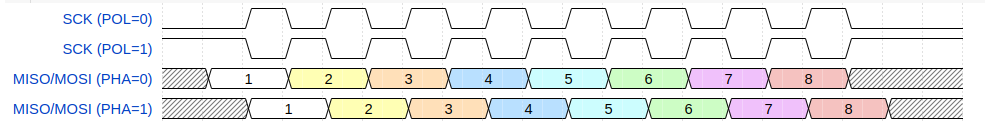
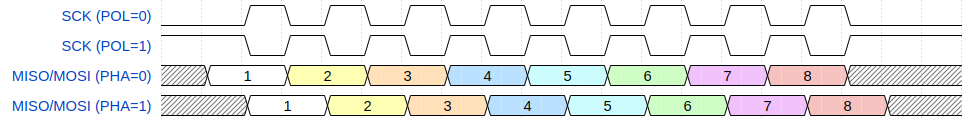
* clean-up text

diff --git a/lssi/doc/um_func_spi.html b/lssi/doc/um_func_spi.html
@@ -35,18 +35,10 @@
          <tr> <td>1</td> <td>1</td> <td><p>В отсутствии трансфера <b>SCK</b>=b'1.</p><p>Данные выдвигаются по падающему фронту <b>SCK</b>, захватываются по нарастающему фронту <b>SCK</b>.</p></td> </tr>
       </tbody>
    </table>
-   <img src="um_mode.png" width="70%">
-<pre class="small">                          __    __    __    __    __    __    __    __      </pre>
-<pre class="small">  SCK      (POL=0): _____|  |__|  |__|  |__|  |__|  |__|  |__|  |__|  |_____</pre>
-<pre class="small">                    _____    __    __    __    __    __    __    __    _____</pre>
-<pre class="small">  SCK      (POL=1):      |__|  |__|  |__|  |__|  |__|  |__|  |__|  |__|     </pre>
-<pre class="small">                       _____ _____ _____ _____ _____ _____ _____ _____      </pre>
-<pre class="small"> MOSI/MISO (PHA=0): --X_____X_____X_____X_____X_____X_____X_____X_____X-----</pre>
-<pre class="small">                         0     1     2     3     4     5     6     7        </pre>
-<pre class="small">                          _____ _____ _____ _____ _____ _____ _____ _____   </pre>
-<pre class="small"> MOSI/MISO (PHA=1): -----X_____X_____X_____X_____X_____X_____X_____X_____X--</pre>
-<pre class="small">                            0     1     2     3     4     5     6     7     </pre>
 
+   <p>&nbsp;</p>
+   <img src="um_mode.png" width="70%">
+   <p>&nbsp;</p>
 
    <p><a name="TSR"></a><b style="color: #0000CC">TSR [0x03] : </b>Регистр управления сигналами выбора Target.</p>
    <table summary="Fields for Register: TSR" cellpadding="4" width="100%" border="1" cellspacing="0" rules="all">
@@ -131,3 +123,162 @@
 
    </body>
 </html>
+<!--
+wire [8*SDRAM_WIDTH-1:0] rdData;
+wire rdDataEn;
+wire wrDataEn;
+reg [8*SDRAM_WIDTH-1:0] wrData;
+reg [SDRAM_WIDTH-1:0] wrDataMask;
+// Note; to provide data before it is required by the PHY there is necessary to delay all control signals to PHY.
+//       except write data itself - data written into FIFO 2 cycles to create single write burst.
+//       also, need to align data with burst boundary made inside FIFO
+wire [1:0] r_dfi_cke, r_dfi_cs, r_dfi_ras_n, r_dfi_cas_n, r_dfi_we_n, r_dfi_odt, r_dfi_act_n;
+wire [3:0] r_dfi_bg;
+wire [5:0] r_dfi_bank;
+wire [27:0] r_dfi_address;
+ehl_cdc
+#(
+.SYNC_STAGE (1),
+.WIDTH(2+2+6+2+2+2+28+2+2+4)
+) ac_dly_inst
+(
+.clk(mctrl_clk),
+.reset_n(presetn),
+.din ({dfi_cke, dfi_cs, dfi_ras_n, dfi_cas_n, dfi_we_n, dfi_odt, dfi_act_n, dfi_bg, dfi_bank, dfi_address[31:18], dfi_address[13:0]}),
+.dout ({r_dfi_cke, r_dfi_cs, r_dfi_ras_n, r_dfi_cas_n, r_dfi_we_n, r_dfi_odt, r_dfi_act_n, r_dfi_bg, r_dfi_bank, r_dfi_address})
+);
+// Note: parameters to module are not provided as core should be regenerated in case of parameter change
+assign sdram_we_n = sdram_a[14];
+phy_ddr4 phy_inst
+(
+.sys_rst (!presetn),
+.c0_sys_clk_p (ddr_clk),
+.c0_sys_clk_n ( ddr_clk_n),
+.c0_ddr_ui_clk_sync_rst (ui_rst),
+.c0_ddr4_act_n (sdram_act_n),
+.c0_ddr4_adr ({sdram_ras_n, sdram_ca_n, sdram_a}),
+.c0_ddr4_ba (sdram_ba[1:0]),
+.c0_ddr4_bg (sdram_bg[0]),
+.c0_ddr4_cke (sdram_cke),
+.c0_ddr4_odt (sdram_odt),
+.c0_ddr4_cs_n (sdram_cs_n),
+.c0_ddr4_ck_t (sdram_ck),
+.c0_ddr4_ck_c (sdram_ck_n),
+.c0_ddr4_reset_n (sdram_rst_n),
+.c0_ddr4_dm_dbi_n (sdram_dm),
+.c0_ddr4_dq (sdram_dq),
+.c0_ddr4_dqs_c (sdram_dqs_n),
+.c0_ddr4_dqs_t (sdram_dqs),
+.c0_init_calib_complete (dfi_init_complete),
+.addn_ui_clkout1(mctrl_clk),
+.addn_ui_clkout2(slow_clk),
+.dBufAdr (5'h0) , // should be tied low
+.wrData,
+.wrDataMask,
+.rdData
+.rdDataEn,
+.wrDataEn,
+.mcCasSlot(2'h0),
+.mcCasSlot2(2'h0),
+.mcRdCAS ((!r_dfi_cs[0] & r_dfi_ras_n[0] & !r_dfi_cas_n[0] & r_dfi_we_n[0]) | (!r_dfi_cs[1] & r_dfi_ras_n[1] & !r_dfi_cas_n[1] & r_dfi_we_n[1]),
+.mcWrCAS ((!r_dfi_cs[0] & r_dfi_ras_n[0] & !r_dfi_cas_n[0] & !r_dfi_we_n[0]) | (!r_dfi_cs[1] & r_dfi_ras_n[1] & !r_dfi_cas_n[1] & !r_dfi_we_n[1]),
+.winInjTxn(1'b0),
+.winRmw(1'b0),
+.gt_data_ready(1'b0),
+.winBuf(5'h0),
+.winRank(2'd0),
+.mc_CKE ( {r_dfi_cke[0], r_dfi_cke[0], // default
+           r_dfi_cke[0], r_dfi_cke[0], // default
+           r_dfi_cke[1], r_dfi_cke[1],
+           r_dfi_cke[0], r_dfi_cke[0]}),
+.mc_CS_n ( {2'h3, 2'h3,
+           r_dfi_cs_n[1], r_dfi_cs_n[1],
+           r_dfi_cs_n[0], r_dfi_cs_n[0]}),
+.mc_BA (   {2'h0, 2'h0, r_dfi_bank[4], r_dfi_bank[4], r_dfi_bank[1], r_dfi_bank[1],
+            2'h0, 2'h0, r_dfi_bank[3], r_dfi_bank[3], r_dfi_bank[0], r_dfi_bank[0]} ),
+.mc_ADR (   {2'h3, 2'h3, r_dfi_ras_n[1], r_dfi_ras_n[1], r_dfi_ras_n[0], r_dfi_ras_n[0],
+             2'h3, 2'h3, r_dfi_cas_n[1], r_dfi_cas_n[1], r_dfi_cas_n[0], r_dfi_cas_n[0],
+             2'h3, 2'h3, r_dfi_we_n[1], r_dfi_we_n[1], r_dfi_we_n[0], r_dfi_we_n[0],
+             2'h0, 2'h0, r_dfi_address[27], r_dfi_address[27], r_dfi_address[13], r_dfi_address[13],
+             2'h0, 2'h0, r_dfi_address[26], r_dfi_address[26], r_dfi_address[12], r_dfi_address[12],
+             2'h0, 2'h0, r_dfi_address[25], r_dfi_address[25], r_dfi_address[11], r_dfi_address[11],
+             2'h0, 2'h0, r_dfi_address[24], r_dfi_address[24], r_dfi_address[10], r_dfi_address[10],
+             2'h0, 2'h0, r_dfi_address[23], r_dfi_address[23], r_dfi_address[9], r_dfi_address[9],
+             2'h0, 2'h0, r_dfi_address[22], r_dfi_address[22], r_dfi_address[8], r_dfi_address[8],
+             2'h0, 2'h0, r_dfi_address[21], r_dfi_address[21], r_dfi_address[7], r_dfi_address[7],
+             2'h0, 2'h0, r_dfi_address[20], r_dfi_address[20], r_dfi_address[6], r_dfi_address[6],
+             2'h0, 2'h0, r_dfi_address[19], r_dfi_address[19], r_dfi_address[5], r_dfi_address[5],
+             2'h0, 2'h0, r_dfi_address[18], r_dfi_address[18], r_dfi_address[4], r_dfi_address[4],
+             2'h0, 2'h0, r_dfi_address[17], r_dfi_address[17], r_dfi_address[3], r_dfi_address[3],
+             2'h0, 2'h0, r_dfi_address[16], r_dfi_address[16], r_dfi_address[2], r_dfi_address[2],
+             2'h0, 2'h0, r_dfi_address[15], r_dfi_address[15], r_dfi_address[1], r_dfi_address[1],
+             2'h0, 2'h0, r_dfi_address[14], r_dfi_address[14], r_dfi_address[0], r_dfi_address[0]}),
+.mc_ODT (   {r_dfi_odt[1],r_dfi_odt[1],r_dfi_odt[1],r_dfi_odt[1], // default... not really correct one
+            r_dfi_odt[0],r_dfi_odt[0],r_dfi_odt[0],r_dfi_odt[0]}),
+.mc_ACT_n ( {2'h3, 2'h3, r_dfi_act_n[1], r_dfi_act_n[1], r_dfi_act_n[0], r_dfi_act_n[0]}),
+.mc_BG ( {2'h0, 2'h0, r_dfi_bg[2], r_dfi_bg[2], r_dfi_bg[0], r_dfi_bg[0]} )
+);
+
+wire rd_empty;
+ehl_fifo
+#(
+.WIDTH_DIN(128),
+.WIDTH_DOUT(64)/*,
+.SYNC_STAGE(0)*/
+)
+rd_fifo_inst
+(
+.wclk(mctrl_clk),
+.rclk(mctrl_clk),
+.wr (rdDataEn),
+.rd(!rd_empty),
+.w_reset_n(presetn), //
+.wdat ( {
+   rdData[15*8+:8],   rdData[7*8+:8],
+   rdData[14*8+:8],   rdData[6*8+:8],
+   rdData[13*8+:8],   rdData[5*8+:8],
+   rdData[12*8+:8],   rdData[4*8+:8],
+   rdData[11*8+:8],   rdData[3*8+:8],
+   rdData[10*8+:8],   rdData[2*8+:8],
+   rdData[9*8+:8],   rdData[1*8+:8],
+   rdData[8*8+:8],   rdData[0*8+:8],
+}),
+.rdata (dfi_rdata),
+.r_empty(rd_empty),
+.clr_of(1'b0),
+.clr_uf(1'b0));
+assign dfi_rddata_valid = {4{!rd_empty}};
+assign dfi_rdlvl_resp = 0;
+wire wr_empty;
+wire [128+16-1:0] wdata;
+always@(posedge mctrl_clk)
+if(wrDataEn & !wr_empty)
+begin
+wrData <= {
+   wdata[8+15*8+:8],   wdata[8+13*8+:8],   wdata[8+11*8+:8],   wdata[8+9*8+:8],   wdata[7*8+:8],   wdata[5*8+:8],   wdata[3*8+:8],   wdata[1*8+:8],
+   wdata[8+14*8+:8],   wdata[8+12*8+:8],   wdata[8+10*8+:8],   wdata[8+8*8+:8],   wdata[6*8+:8],   wdata[4*8+:8],   wdata[2*8+:8],   wdata[0*8+:8]};
+wrDataMask <= ~{
+   wdata[143],   wdata[141],   wdata[139],   wdata[137],   wdata[71],   wdata[69],   wdata[67],   wdata[65],
+   wdata[142],   wdata[140],   wdata[138],   wdata[136],   wdata[70],   wdata[68],   wdata[66],   wdata[64]};
+};
+ehl_fifo
+#(
+.WIDTH_DIN(64+8),
+.WIDTH_DOUT(128+16),
+.DEPTH(32),
+.SYNC_STAGE(0)
+)
+wr_fifo_inst
+(
+.wclk(mctrl_clk),
+.rclk(mctrl_clk),
+.wr (dfi_wrdata_en[0]),
+.rd(wrDataEn & !wr_empry),
+.w_reset_n(presetn), //
+.wdat ({dfi_wrdata_mask, dfi_wrdata}),
+.rdat ( wdat ),
+.r_empty(wr_empty),
+.clr_of(1'b0),
+.clr_uf(1'b0));
+
+-->

diff --git a/1553/doc/reg_desc.html b/1553/doc/reg_desc.html
@@ -54,12 +54,12 @@
                <td>
                   <b>Disable Broadcast</b>. Отключение приема широковещательных сообщений для ОУ:
                   <li>0 - прием разрешен;</li>
-                  <li>1 - прием выключен.</li>
+                  <li>1 - прием запрещен.</li>
                   Позволяет отключать широковещательные сообщения для применений, в которых они нежелательны [9 50.5.7.1.b].
-				  <p>
-				     Глобальная маска приводит к игнорированию команд на шине - статус не обновляется.
-				     В случае с маскированием для выбранного Subaddress с помощью <b>Config.BCRXEN</b> статус обновляется.
-				  </p>
+                  <p>
+                     Глобальная маска приводит к игнорированию команд на шине - статус не обновляется.
+                     В случае с маскированием для выбранного Subaddress с помощью <b>Config.BCRXEN</b> статус обновляется.
+                  </p>
                </td>
                <td>R/W</td>
                <td>0</td>

diff --git a/README.md b/README.md
@@ -3,3 +3,8 @@
 EHL stands for Eshell Hardware Library - library of configurable hardware cores of different level of complexity implemented at Verilog (IEEE 1364-2005).
 
 This repository represents open part of EHL (including RTL sources, testbenches, constraints, run scripts, and docs).
+
+To list available options type:
+```
+make
+```
